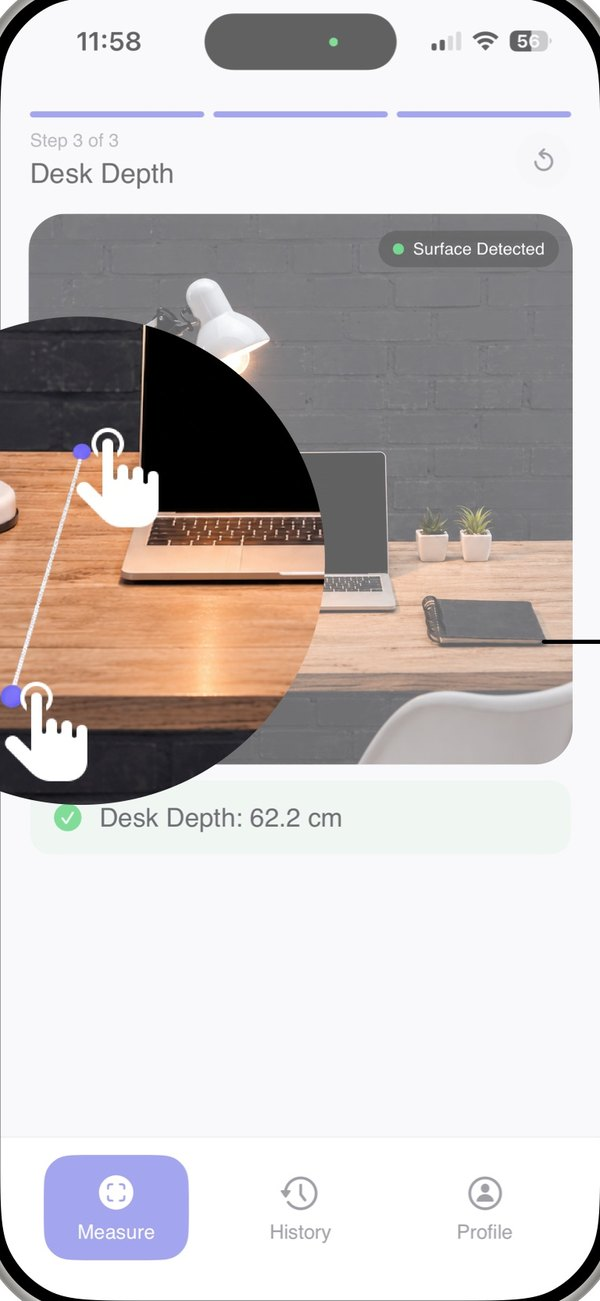
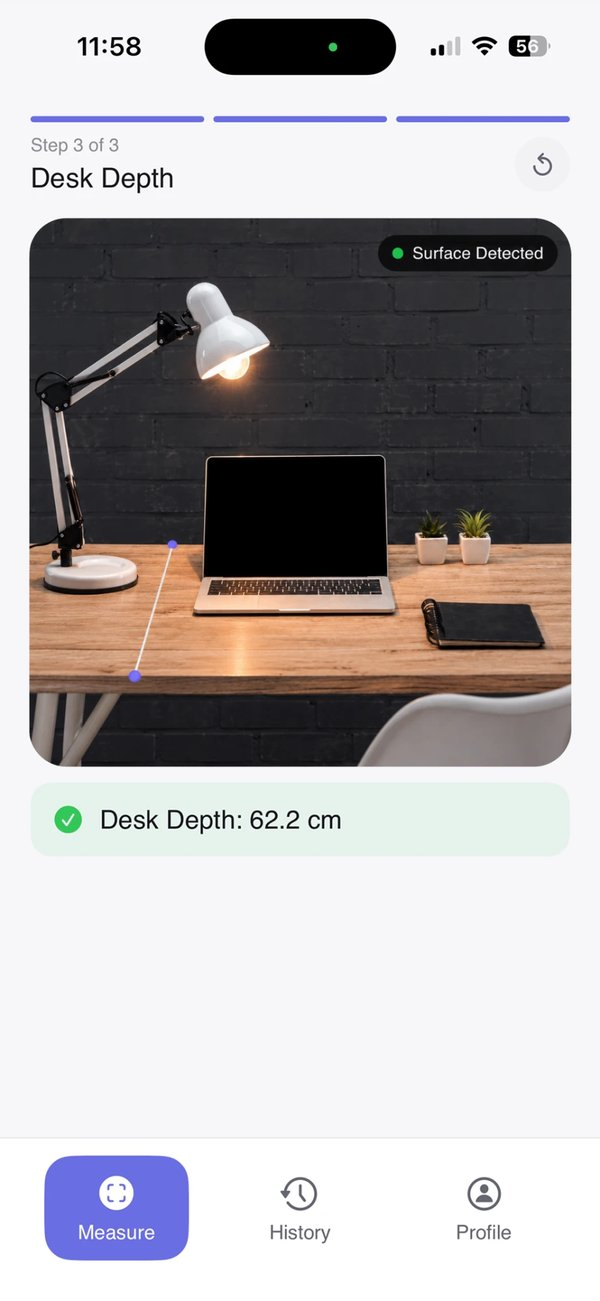
ErgoScan: fix Process 01 order, show the full magnifier on the measuring Before

diff --git a/index.html b/index.html
@@ -353,6 +353,9 @@ body.hint .tuner.dev{animation:none}
 :is(#ergoscanPage,#shleepPage,#stuviewPage) .cs-ba .tag{align-self:flex-start;max-width:none;margin:0;font-size:13px;font-weight:600;letter-spacing:.08em;text-transform:uppercase;line-height:1.4;padding:.15em .9em;border-radius:999px;border:1px solid #0a0a0a;background:#fff}
 :is(#ergoscanPage,#shleepPage,#stuviewPage) .cs-ba .after .tag{background:var(--y)}
 :is(#ergoscanPage,#shleepPage,#stuviewPage) .cs-ba .dv{width:min(240px,62%);align-self:center}
+/* Before, measuring: a magnifier circle over the phone, allowed to sit outside the frame so it is never cut off */
+.cs-ba .mag-wrap{position:relative}
+.cs-ba .mag{position:absolute;left:15%;top:43%;width:77%;height:auto;transform:translate(-50%,-50%);filter:drop-shadow(0 10px 22px rgba(10,10,10,.28));pointer-events:none;z-index:2}
 :is(#ergoscanPage,#shleepPage,#stuviewPage) .cs-ba .side{background:var(--shot)}
 :is(#ergoscanPage,#shleepPage,#stuviewPage) .cs-ba p{font-size:15px;line-height:1.6;margin:0}
 
@@ -590,7 +593,7 @@ body.hint .tuner.dev{animation:none}
       <p class="cs-eyebrow">Process</p>
       <h2 class="cs-h2">How we got there</h2>
       <ol class="cs-steps">
-        <li class="cs-card"><p class="num">01</p><h4>Concept &amp; UX flow</h4><p>The project started with research on ergonomic workspaces, then the full flow: measure, a quick assessment, AI analysis, then save to history.</p></li>
+        <li class="cs-card"><p class="num">01</p><h4>Concept &amp; UX flow</h4><p>We started by setting the flow: measure, AI analysis, then save to history. Then we researched ergonomic guidelines to decide what to measure and which values count as a good setup, and added a quick assessment step after that.</p></li>
         <li class="cs-card"><p class="num">02</p><h4>Lo-fi &amp; design system</h4><p>Lo-fi sketches first, then a design system to build the prototype on.</p></li>
         <li class="cs-card"><p class="num">03</p><h4>Building it</h4><p>The front end was built in Xcode with SwiftUI and ARKit, with Claude helping on the code.</p></li>
         <li class="cs-card"><p class="num">04</p><h4>User testing</h4><p>Two rounds: classmates at an in-class showcase, then our year-end show, where about 20 visitors tried the app and 5 of them filled out a survey.</p></li>
@@ -610,7 +613,7 @@ body.hint .tuner.dev{animation:none}
         <div class="cs-ba">
           <div class="side before">
             <span class="tag">Before</span>
-            <figure class="dv"><div class="device"><div class="media phone" data-src="images/ergoscan/before-measure.jpg" data-ratio="600/1301" data-alt="Old measuring screen"><span class="mph"><b>before-measure.jpg</b></span></div></div></figure>
+            <figure class="dv mag-wrap"><div class="device"><div class="media phone" data-src="images/ergoscan/before-measure.jpg?v=2" data-ratio="600/1301" data-alt="Old measuring screen: tap two points on a small camera view to measure desk depth"><span class="mph"><b>before-measure.jpg</b></span></div></div><img class="mag" src="images/ergoscan/before-zoom.png" alt="Close-up: two fingers tapping tiny points on the desk edge"></figure>
             <p>Free tap to place points on a small camera view. During the in-class showcase, testers weren't sure where to tap and couldn't aim precisely.</p>
           </div>
           <div class="side after">

diff --git a/CLAUDE.md b/CLAUDE.md
@@ -78,7 +78,7 @@ The final copy is whatever is in `portfolio-tuning.html`. Do not replace it with
 
 ## Facts about the projects
 
-- ErgoScan (2026, 4 weeks): AR iOS app that measures a desk setup and gives AI fixes. Team of 2 with Diana Amriyeva. Suji: branding and design system (color palette, typography) done herself, and the prototype (there was NO separate hi-fi mockup stage: after lo-fi sketches and the design system they went straight to building, with screens drafted by AI in code and Suji refining every screen and detail in the prototype; never call it hi-fi design or Figma work; hi-fi NOT designed in Figma, never say "in Figma" for ErgoScan. The lo-fi stage (information architecture, user flow, hand-drawn lo-fi screens) was done together by Suji and Diana), dark theme designed with AI, front-end prototype in Xcode (SwiftUI + ARKit) built with help from Claude, two rounds of user testing done together with Diana (in-class showcase, then the year-end show, where about 20 visitors tried the app and about 5 filled out the survey. Never say 20 people were surveyed). Diana: concept, UX flow, backend including the OpenAI API. The concept stage included research on ergonomic workspaces. On the page, the Process steps are written neutrally and do not split who did what; ErgoScan has NO My role section (removed 2026-11-11 at Suji's request); her role is the header meta line "UX/UI design · Design system · Front-end prototype". Do not stress that the hi-fi was not done in Figma. RGD Student Award 2026, Honorable Mention.
+- ErgoScan (2026, 4 weeks): AR iOS app that measures a desk setup and gives AI fixes. Team of 2 with Diana Amriyeva. Suji: branding and design system (color palette, typography) done herself, and the prototype (there was NO separate hi-fi mockup stage: after lo-fi sketches and the design system they went straight to building, with screens drafted by AI in code and Suji refining every screen and detail in the prototype; never call it hi-fi design or Figma work; hi-fi NOT designed in Figma, never say "in Figma" for ErgoScan. The lo-fi stage (information architecture, user flow, hand-drawn lo-fi screens) was done together by Suji and Diana), dark theme designed with AI, front-end prototype in Xcode (SwiftUI + ARKit) built with help from Claude, two rounds of user testing done together with Diana (in-class showcase, then the year-end show, where about 20 visitors tried the app and about 5 filled out the survey. Never say 20 people were surveyed). Diana: concept, UX flow, backend including the OpenAI API. The flow (measure, AI analysis, history) was set first; the ergonomics research came after, to decide which measurements to take and the target values; the quick assessment step was added after the research (Suji corrected this order on 2026-11-12). On the page, the Process steps are written neutrally and do not split who did what; ErgoScan has NO My role section (removed 2026-11-11 at Suji's request); her role is the header meta line "UX/UI design · Design system · Front-end prototype". Do not stress that the hi-fi was not done in Figma. RGD Student Award 2026, Honorable Mention.
 - Shleep (2026): sleep and dream tracking concept from FigBuild 2026 (Figma's student design-a-thon), team of 4. Suji's role is UI design: she set the visual style (type, spacing, card design, corner radius; defined as she designed, kept every screen consistent. Frame it positively, never as "no time") and designed many of the screens, shaping the flow while designing them. Some screens were designed by teammates (she doesn't remember which), so never say she designed all screens. Ideation and the overall flow were team work; do not list UX flow as her role.
 - PawLoop (2025): solo, local toy exchange app for cat owners (trade, sell, free). Problem framing, 3 concepts explored, sitemap, hi-fi UI in Figma, coded HTML/CSS/Bootstrap prototype.
 - Stu-View (2025): solo moderated usability study of GBC's student portal. 5 participants, 4 tasks, think-aloud. Task 2 had a 60% completion rate and 2 critical errors. 3 of 5 participants gave up on the menu and used search.
@@ -114,3 +114,4 @@ The final copy is whatever is in `portfolio-tuning.html`. Do not replace it with
 - Accessibility (2026-11-12, for the INTR3006 rubric): every `.media` gets alt/aria-label from `data-alt`, else its figure's figcaption, else the placeholder note (never the file name). Add `data-alt` to any new media without a caption. Keyboard focus ring: `:focus-visible{outline:2px solid #0a0a0a;outline-offset:2px;box-shadow:0 0 0 6px var(--y)}` (shows on blue and on white).
 - Nav has WORK / ABOUT / CONTACT (2026-11-12, for the rubric "Contact Info"). CONTACT (`a.tocontact`, href #contact) smooth-scrolls to the shared footer (`footer#contact`) on the current page without changing the hash (an unknown hash would switch to home), sets `window.__noSnap` so the hero snap does not hijack it, and moves focus to the email link.
 - Work card thumbnails are 1600x1000 (16:10, the `.ph` frame). ErgoScan's (`images/ergoscan-01.jpg?v=2`) was replaced 2026-11-12 with Suji's new RGD Honourable Mention version; her export had rounded corners baked in, which were filled with the nearby background before resizing. PawLoop (unfinished) shows a deliberate "Coming soon" thumbnail (`.soon`: her PawLoop logo `images/pawloop/logo.png` and a white "Coming soon" pill; yellow was too loud) instead of an empty box; its hover band is hidden.
+- ErgoScan Challenge 1 Before (2026-11-12): `before-measure.jpg?v=2` (Suji's original desk-depth screenshot) in the phone frame, with `before-zoom.png` (her magnifier circle) laid over it as `.mag` outside the device, so the circle is never clipped. Position follows her mockup: center at 15% / 43% of the phone, 77% of its width.
